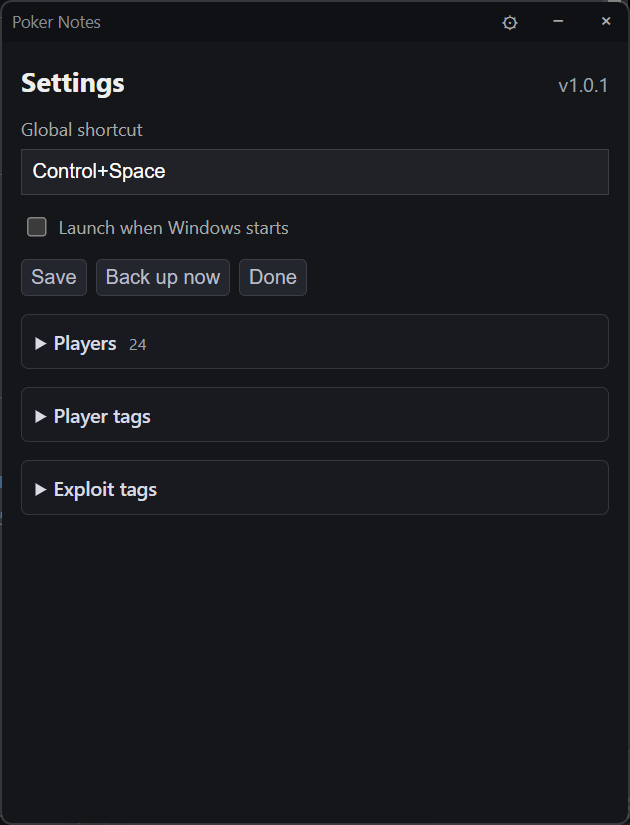
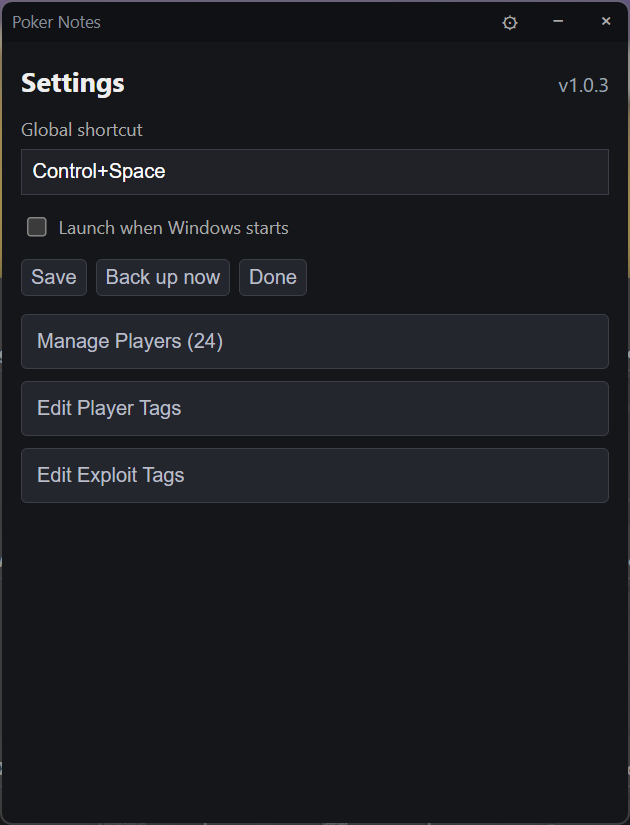
Split settings managers into pages

diff --git a/src/renderer/src/SettingsPanel.tsx b/src/renderer/src/SettingsPanel.tsx
@@ -3,10 +3,12 @@ import type { PlayerPage, Settings } from '../../shared/types'
 import TagManager from './TagManager'
 
 export default function SettingsPanel({close,openPlayer}:{close:()=>void;openPlayer:(id:number)=>void}){
-  const [settings,setSettings]=useState<Settings>({shortcut:'Control+Space',launchAtLogin:false}),[message,setMessage]=useState(''),[version,setVersion]=useState(''),[list,setList]=useState<PlayerPage>({players:[],total:0}),[filter,setFilter]=useState(''),[page,setPage]=useState(0)
+  const [settings,setSettings]=useState<Settings>({shortcut:'Control+Space',launchAtLogin:false}),[message,setMessage]=useState(''),[version,setVersion]=useState(''),[list,setList]=useState<PlayerPage>({players:[],total:0}),[filter,setFilter]=useState(''),[page,setPage]=useState(0),[view,setView]=useState<'players'|'primary'|'exploit'|null>(null)
   useEffect(()=>{window.pokerNotes.getSettings().then(setSettings);window.pokerNotes.getVersion().then(setVersion)},[])
   useEffect(()=>{window.pokerNotes.getPlayers(filter,page).then(setList)},[filter,page])
   const save=async()=>{try{setSettings(await window.pokerNotes.setSettings(settings));setMessage('Saved')}catch(e){setMessage(String(e))}}
   const backup=async()=>{try{setMessage(`Backup saved: ${await window.pokerNotes.backupNow()}`)}catch(e){setMessage(String(e))}}
-  return <section className="settings"><div className="settings-heading"><h2>Settings</h2>{version&&<small>v{version}</small>}</div><label>Global shortcut<input value={settings.shortcut} onChange={e=>setSettings({...settings,shortcut:e.target.value})}/></label><label className="check"><input type="checkbox" checked={settings.launchAtLogin} onChange={e=>setSettings({...settings,launchAtLogin:e.target.checked})}/> Launch when Windows starts</label><div><button onClick={save}>Save</button><button onClick={backup}>Back up now</button><button onClick={close}>Done</button></div>{message&&<small>{message}</small>}<details className="settings-section" open><summary>Players <small>{list.total}</small></summary><section className="player-list"><input aria-label="Filter players" placeholder="Filter players" value={filter} onChange={e=>{setFilter(e.target.value);setPage(0)}}/>{list.players.map(player=><button key={player.id} onClick={()=>openPlayer(player.id)}>{player.username}</button>)}{list.total>100&&<div className="player-pages"><button disabled={page===0} onClick={()=>setPage(page-1)}>Previous</button><small>{page+1} / {Math.ceil(list.total/100)}</small><button disabled={(page+1)*100>=list.total} onClick={()=>setPage(page+1)}>Next</button></div>}</section></details><details className="settings-section"><summary>Player tags</summary><TagManager kind="primary"/></details><details className="settings-section"><summary>Exploit tags</summary><TagManager kind="exploit"/></details></section>
+  if(view==='players')return <section className="settings"><div className="settings-heading"><button onClick={()=>setView(null)}>← Settings</button><h2>Manage Players <small>{list.total}</small></h2></div><section className="player-list"><input aria-label="Filter players" placeholder="Filter players" value={filter} onChange={e=>{setFilter(e.target.value);setPage(0)}}/>{list.players.map(player=><button key={player.id} onClick={()=>openPlayer(player.id)}>{player.username}</button>)}{list.total>100&&<div className="player-pages"><button disabled={page===0} onClick={()=>setPage(page-1)}>Previous</button><small>{page+1} / {Math.ceil(list.total/100)}</small><button disabled={(page+1)*100>=list.total} onClick={()=>setPage(page+1)}>Next</button></div>}</section></section>
+  if(view)return <section className="settings"><div className="settings-heading"><button onClick={()=>setView(null)}>← Settings</button><h2>Edit {view==='primary'?'Player':'Exploit'} Tags</h2></div><TagManager kind={view}/></section>
+  return <section className="settings"><div className="settings-heading"><h2>Settings</h2>{version&&<small>v{version}</small>}</div><label>Global shortcut<input value={settings.shortcut} onChange={e=>setSettings({...settings,shortcut:e.target.value})}/></label><label className="check"><input type="checkbox" checked={settings.launchAtLogin} onChange={e=>setSettings({...settings,launchAtLogin:e.target.checked})}/> Launch when Windows starts</label><div><button onClick={save}>Save</button><button onClick={backup}>Back up now</button><button onClick={close}>Done</button></div>{message&&<small>{message}</small>}<nav className="settings-nav"><button onClick={()=>setView('players')}>Manage Players ({list.total})</button><button onClick={()=>setView('primary')}>Edit Player Tags</button><button onClick={()=>setView('exploit')}>Edit Exploit Tags</button></nav></section>
 }

diff --git a/src/renderer/src/tags.css b/src/renderer/src/tags.css
@@ -1,14 +1,13 @@
 .settings{display:block;overflow:auto}
 .settings>*+*{margin-top:12px}
 .settings-heading{align-items:baseline;justify-content:space-between}
-.settings-section{border:1px solid #34363d;border-radius:5px;background:#181a1f}
-.settings-section>summary{cursor:pointer;padding:9px;font-size:13px;font-weight:600;color:#d8dbe2}
-.settings-section>summary small{margin-left:5px;font-weight:400}
-.player-list{display:flex;flex-direction:column;max-height:230px;overflow:auto;padding:0 8px 8px}
+.settings-nav{display:flex;flex-direction:column!important;gap:8px!important}
+.settings-nav button{text-align:left;padding:10px}
+.player-list{display:flex;flex-direction:column}
 .player-list input,.tag-fields input{min-width:0;padding:6px;background:#202228;border:1px solid #3b3e47}
 .player-list>button{text-align:left;border-width:0 0 1px;border-radius:0;padding:7px}
 .player-pages{align-items:center;justify-content:space-between;padding-top:7px}
-.tag-manager{display:flex;flex-direction:column;padding:0 8px 8px}
+.settings .tag-manager{display:block}
 .tag-row{display:grid!important;grid-template-columns:30px minmax(0,1fr) auto;align-items:start;gap:6px;padding:8px 0;border-top:1px solid #2d3037}
 .tag-row input[type=color]{width:30px;height:30px;padding:1px;border:0;background:transparent}
 .tag-fields,.tag-actions{display:flex!important;gap:4px}

diff --git a/src/renderer/src/App.test.tsx b/src/renderer/src/App.test.tsx
@@ -63,6 +63,7 @@ it('opens a player from the settings list', async () => {
   vi.mocked(api.getPlayer).mockResolvedValue(profile('Bob',2))
   render(<App />)
   fireEvent.click(screen.getByTitle('Settings'))
+  fireEvent.click(await screen.findByText('Manage Players (2)'))
   fireEvent.change(await screen.findByLabelText('Filter players'),{target:{value:'bob'}})
   fireEvent.click(screen.getByText('Bob'))
   expect(await screen.findByText('Bob')).toBeInTheDocument()
